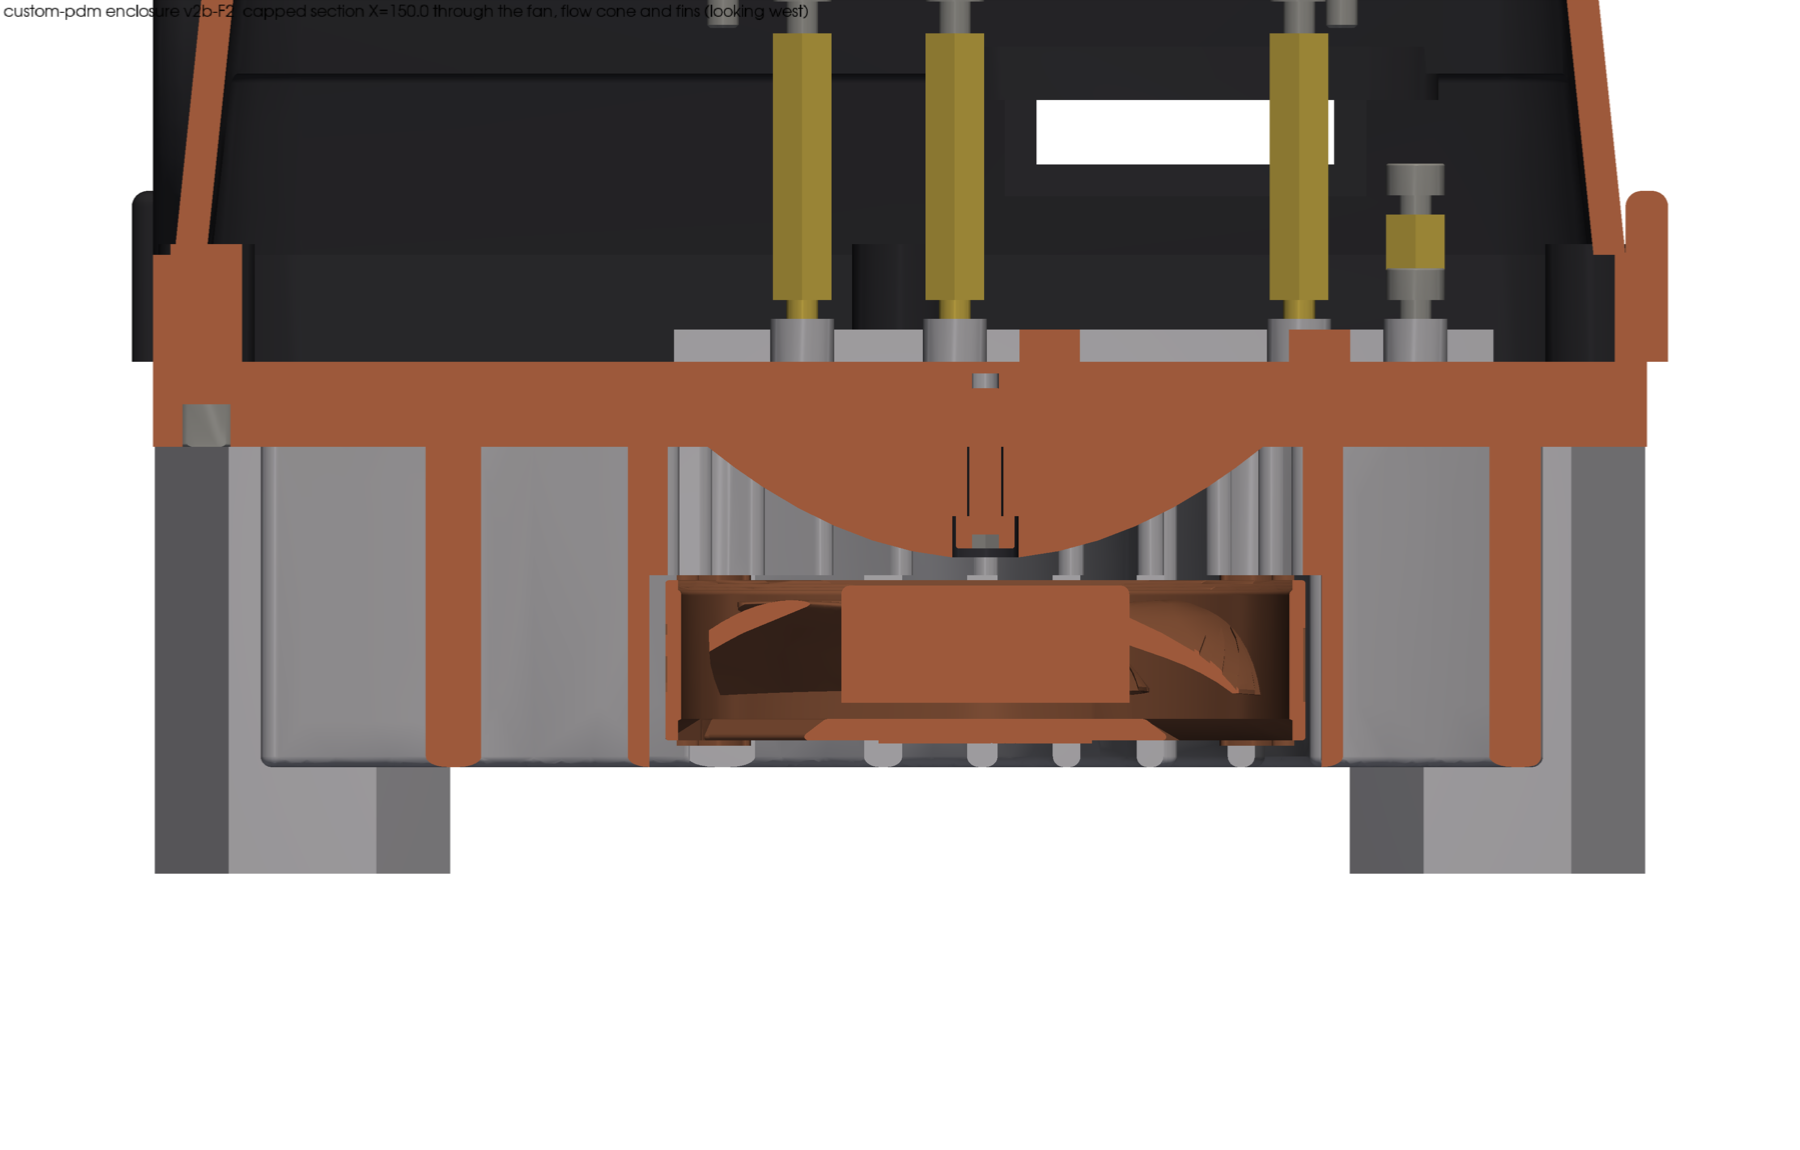
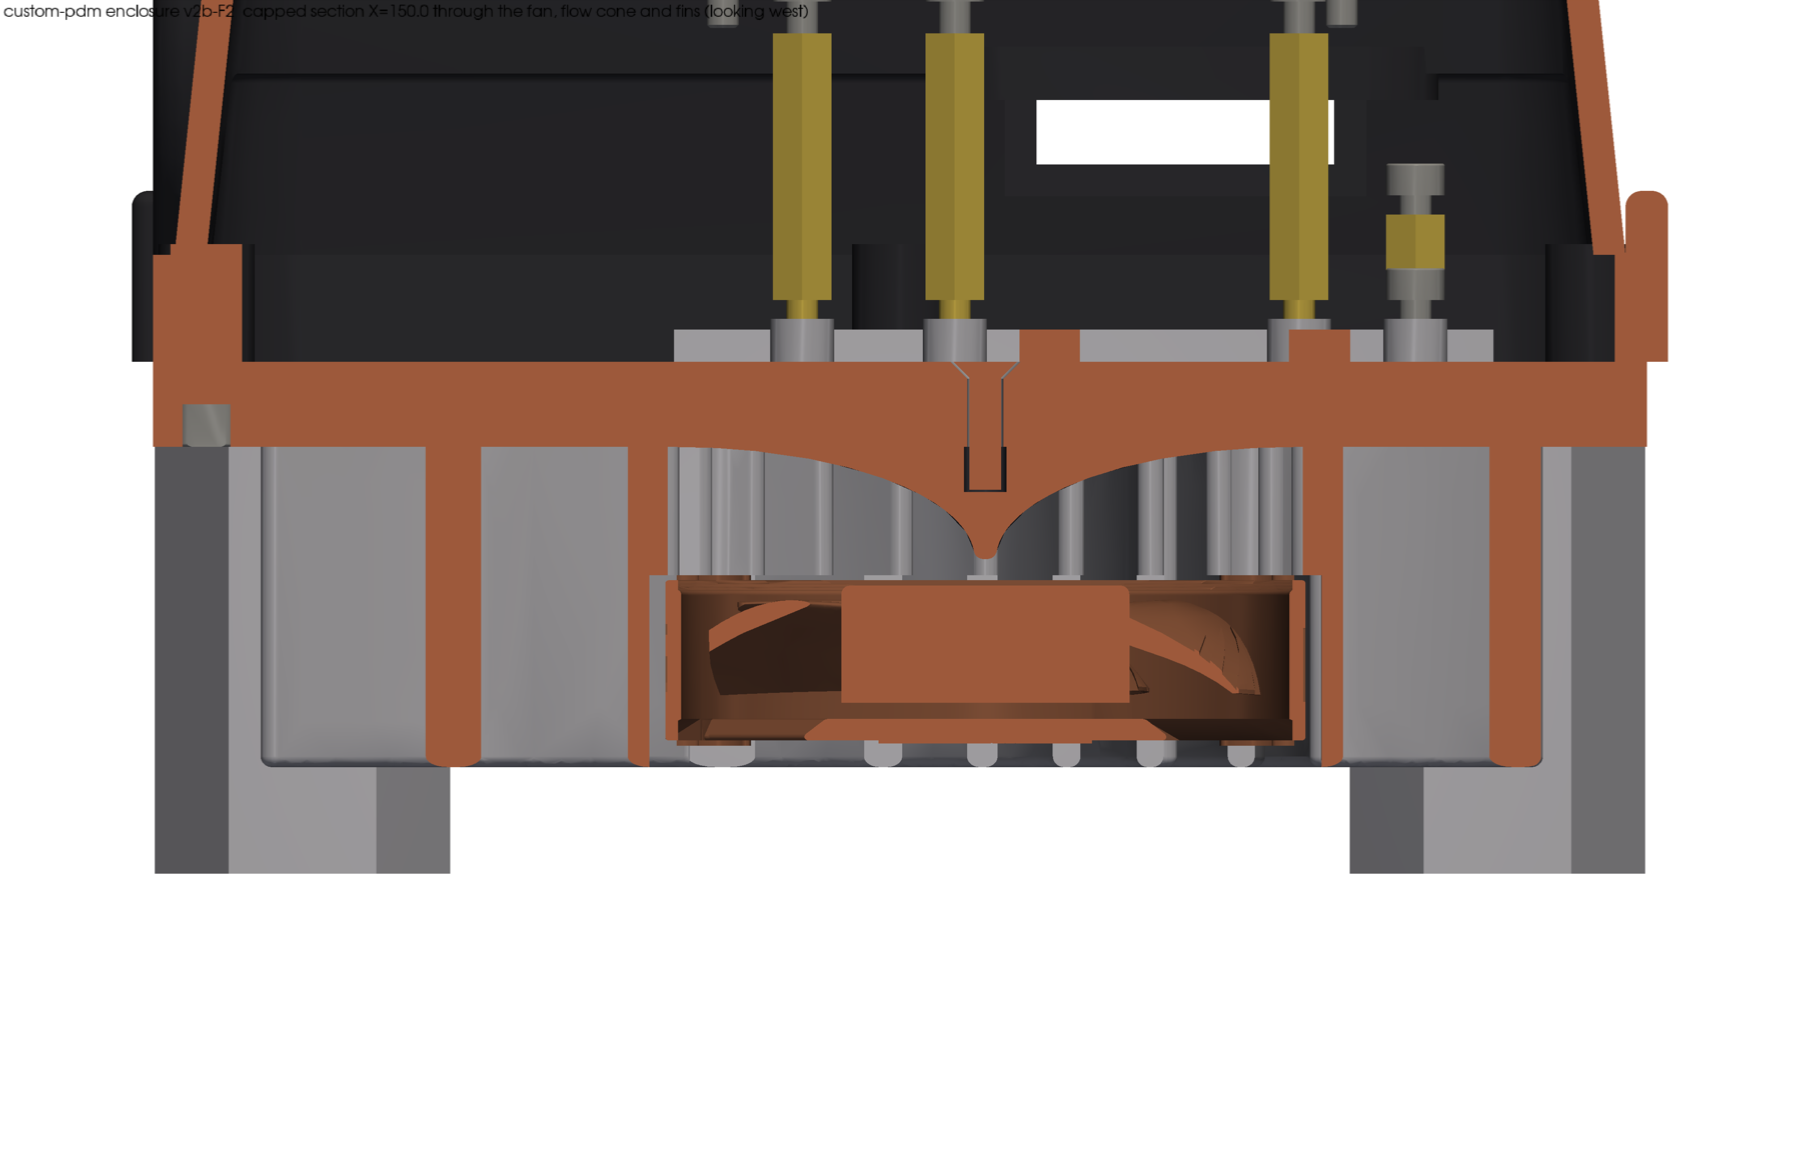
F2 cone renders: section (looking west), cone close-up, underside, iso
Claude-Session: https://claude.ai/code/session_014aA8s43Q562Zi7DSgMxRgH

Changed region(s): [[0.4044, 0.3652, 0.6844, 0.487], [0.5289, 0.3043, 0.56, 0.3652]]

diff --git a/enclosure/v2b/src/render_v2b.py b/enclosure/v2b/src/render_v2b.py
@@ -119,8 +119,9 @@ if "sec_fan" in which and VAR == "F2":                # section through the Noct
     scene(sh, [(X + 500, cy, -20), (X, cy, -20), (0, 0, 1)], "section-fan-cone-fins", T + f"  capped section X={X:.1f} through the fan, flow cone and fins (looking west)", parallel=True, zoom=2.4)
 if "cone" in which and VAR == "F2":                    # close-up of the reverse-velocity-stack flow cone, fan hidden (Dan 2026-11-13 16:05)
     fx, fy = meta["fan"]["c"]
-    sh = {k: v for k, v in S.items() if k in ("heat-sink", "flow-cone-PA12")}
-    scene(sh, [(fx - 120, fy - 150, -150), (fx, fy, -14), (0, 0, 1)], "cone-iso", T + "  flow cone (reverse velocity stack) under the fan, fan hidden", zoom=3.2)
+    sh = {k: v for k, v in S.items() if k in ("flow-cone-PA12", "vendor-fan-Noctua-NF-A6x15", "screws_CSK-M3-0.5_x_12_(ISO_10642)")}
+    col["flow-cone-PA12"] = (0.85, 0.45, 0.2)      # light tone for this close-up only (PA12 is black in the other views)
+    scene(sh, [(fx - 140, fy - 170, -60), (fx, fy, -15), (0, 0, 1)], "cone-iso", T + "  flow cone alone (orange) over the Noctua fan (40 % opaque); plate and fins hidden", zoom=1.9, opac={"vendor-fan-Noctua-NF-A6x15": 0.4})
 if "sec_stack" in which:
     X = meta["X0"]["A1"] + 37.846 + 6.0
     sh = {k: halfcut(k, v, "x", X, "lt") for k, v in S.items() if bb(v)[0][0] < X}
